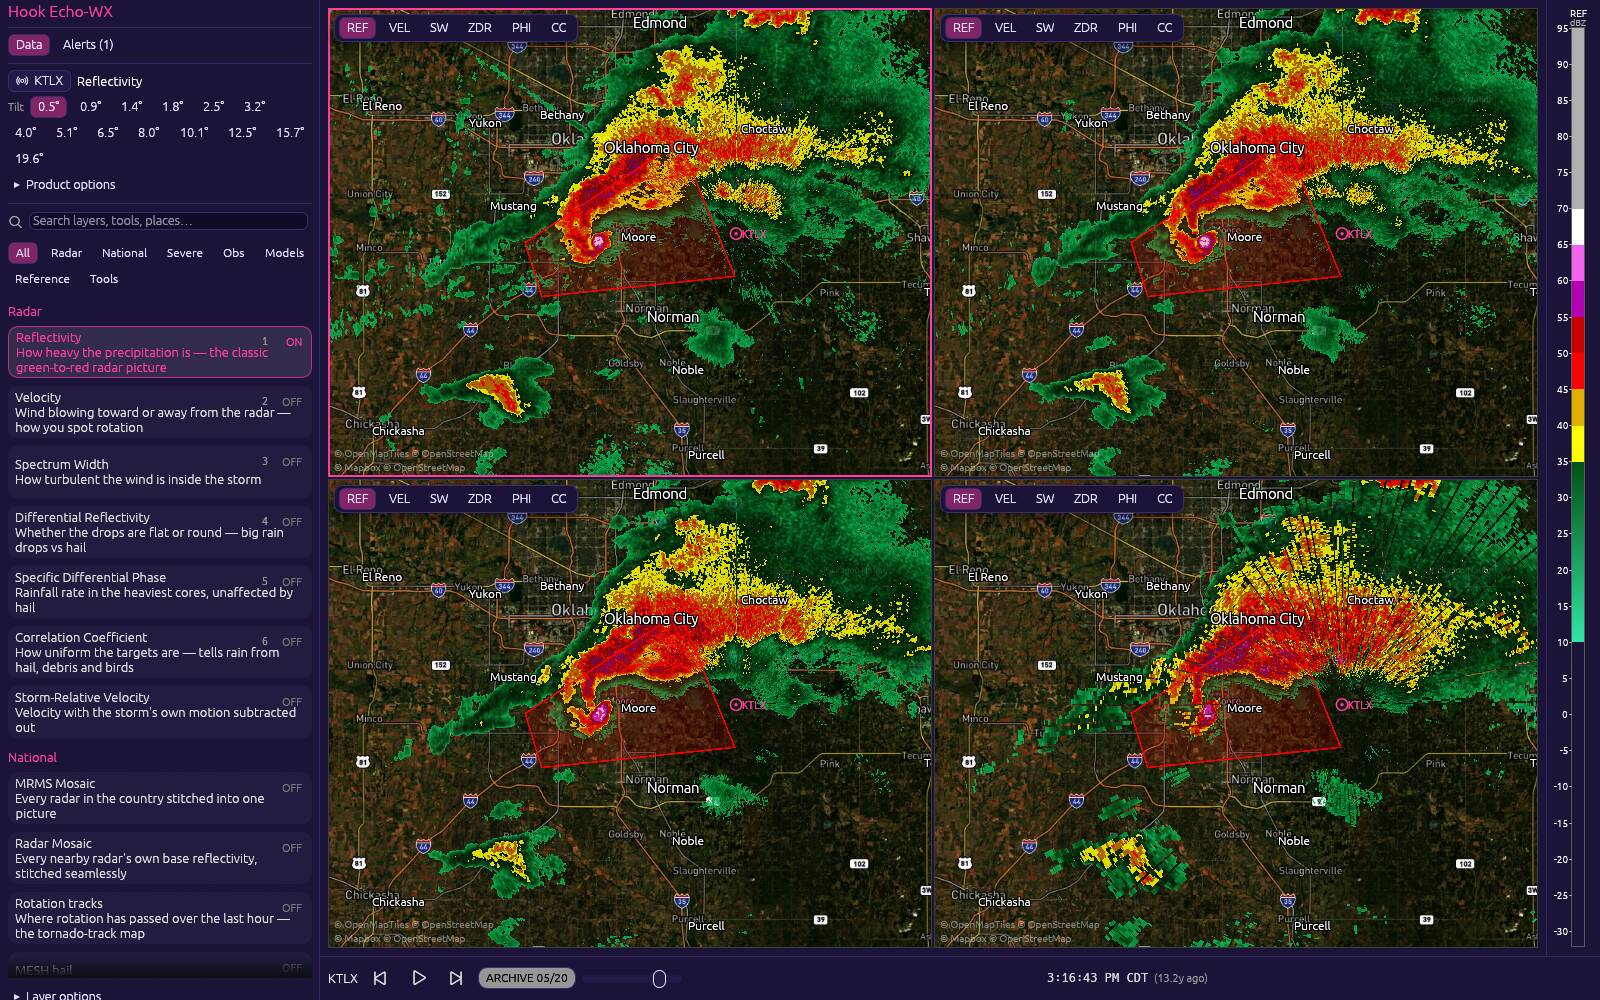
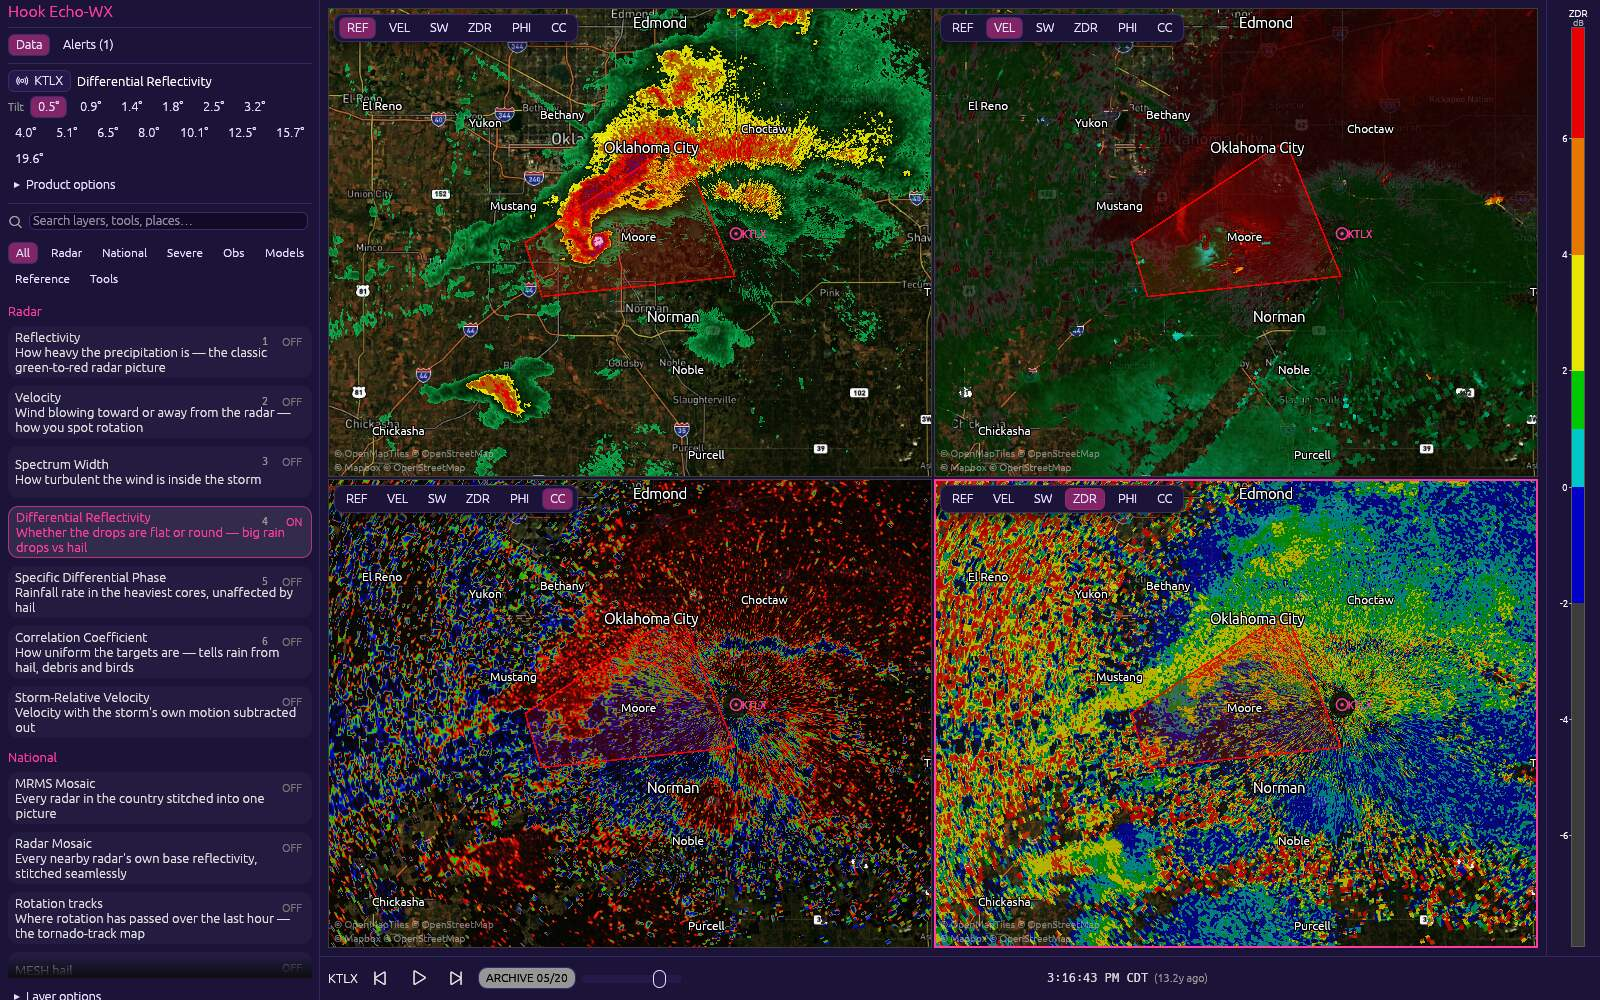
docs(shots): show four different products in the quad screenshot
The quad shot was four panes of reflectivity at four tilts, which reads as
one picture printed four times. Shoot it as four panes of four different
products instead — REF, VEL, CC and ZDR on the same storm at the same
second — by clicking each pane's own moment strip, with pane cameras linked
so all four look at the same place.

diff --git a/README.md b/README.md
@@ -101,14 +101,16 @@ the tight red-against-green couplet below is a tornado on the ground.
 | ![A classic supercell with a hook echo](docs/shots/reflectivity.jpg) | ![A tornadic velocity couplet](docs/shots/velocity.jpg) |
 | <sub>KBMX — Tuscaloosa, AL, 27 Apr 2011</sub> | <sub>KTLX — El Reno, OK, 31 May 2013</sub> |
 
-One action opens the same product at four tilts with the cameras linked, so you
-can see how a storm leans with height. Cross-sections slice it vertically in any
-product — click two points and you get the storm in profile, core and overhang
-and all.
+Split the window into four panes and give each one its own product, cameras
+linked — reflectivity, velocity, correlation coefficient and differential
+reflectivity on the same storm at the same second. One action does the same
+trick with four tilts instead, so you can see how a storm leans with height.
+Cross-sections slice it vertically in any product — click two points and you get
+the storm in profile, core and overhang and all.
 
-| Four tilts at once | Cross-section |
+| Four products at once | Cross-section |
 |---|---|
-| ![The same storm at four elevation angles](docs/shots/alltilts.jpg) | ![A vertical slice through the storm core](docs/shots/xsection.jpg) |
+| ![The same storm in reflectivity, velocity, correlation coefficient and differential reflectivity](docs/shots/alltilts.jpg) | ![A vertical slice through the storm core](docs/shots/xsection.jpg) |
 | <sub>KTLX — Moore, OK, 20 May 2013</sub> | <sub>KTLX — Moore, OK, 20 May 2013</sub> |
 
 Every screenshot in this section is a replay. The timeline reaches back to 2008,
